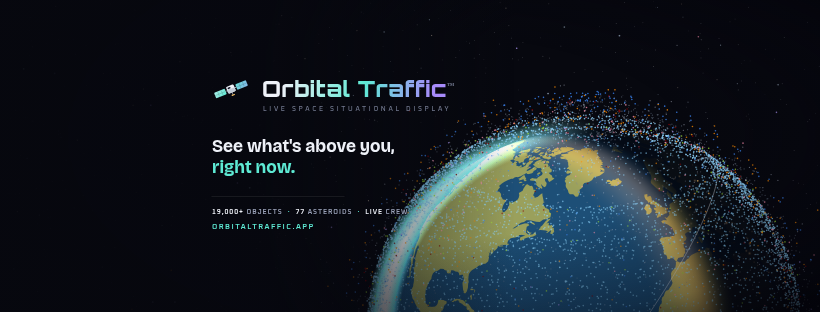
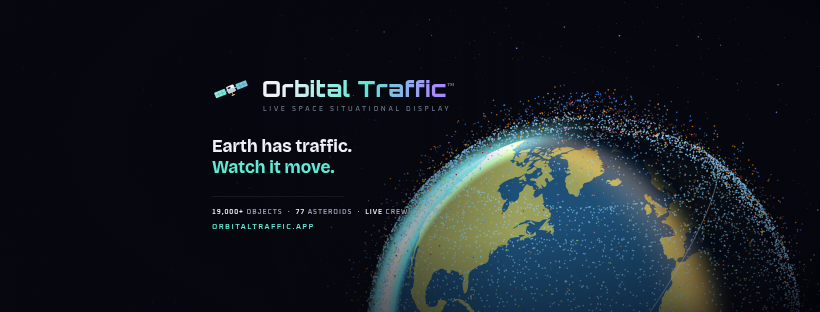
feat: cover headline is now "Earth has traffic. Watch it move."
Chosen over the landing page's wording after rendering the candidates in
place at Facebook's real display size. A social page is found cold by
people who have never heard of this, and "Orbital Traffic" does not
explain itself; "Earth has traffic" makes the name land immediately,
and the belt of real catalogue dots beside it is the evidence.

This is now deliberately different from welcome.html's <h1>/<title>/
og:title, so the cover and a shared link no longer say the same thing.
That divergence is recorded in both the generator and the README, with
the three places to change if they are ever meant to match again.

The README's headline table keeps every candidate that fits the width
budget, and the bio section gains a matching variant.

Claude-Session: https://claude.ai/code/session_01EFr32ekq6uSYHJpBYuUmBy

Changed region(s): [[0.2439, 0.4327, 0.4878, 0.4904], [0.2439, 0.5192, 0.4268, 0.5769]]

diff --git a/design/social/README.md b/design/social/README.md
@@ -110,7 +110,11 @@ In `tools/build-social-cover.mjs`:
 
 > See what's above you, right now — 19,000+ satellites and spacecraft on a live 3D globe.
 
-*87 characters.* Alternative, if a flatter statement is wanted:
+*87 characters.* If the bio should pick up the cover's headline instead:
+
+> Earth has traffic — 19,000+ satellites, stations and spacecraft on a live 3D globe.
+
+*83 characters.* Or, flatter, saying only what the thing is:
 
 > A live 3D map of everything in orbit: 19,000+ satellites, stations and spacecraft.
 
@@ -118,24 +122,30 @@ In `tools/build-social-cover.mjs`:
 
 ### Cover headline
 
-The cover currently carries the same two lines as `welcome.html`'s `<h1>`,
-which are also the page `<title>` and `og:title` — so the cover and a shared
-link say the same thing. **Changing it here alone breaks that**; change
-`welcome.html` in the same pass if the pairing matters.
+The cover reads **"Earth has traffic. / Watch it move."**
 
-Alternatives that fit the two-line width budget, rendered and checked in place:
+This deliberately does *not* match `welcome.html`, whose `<h1>` — and its
+`<title>` and `og:title` with it — say "See what's above you. Right now." The
+two surfaces meet different readers: a social page is found cold by people who
+have never heard of this and for whom "Orbital Traffic" doesn't explain itself,
+while the landing page is read by someone who has already clicked. If the two
+are ever meant to match again, those three places in `welcome.html` are what
+change.
+
+Alternatives that fit the two-line width budget, all rendered and checked in
+place before choosing:
 
 | | Headline | Angle |
 |---|---|---|
-| **current** | See what's above you, / right now. | matches the landing page |
-| **A** | Space is busier / than you think. | curiosity; the dot field next to it proves the claim |
-| **B** | 19,000 objects are / above you right now. | scale — but repeats the stat line directly beneath it |
-| **C** | Earth has traffic. / Watch it move. | explains what the product name means |
-| **D** | Look up. / Then look closer. | invitation; vaguest about what the thing is |
-| **E** | What's over your head / right now? | question form, close cousin of the current line |
-| **F** | Real spacecraft. / Real time. | echoes the App Store description's closing line |
+| **chosen** | Earth has traffic. / Watch it move. | explains what the product name means |
+| | See what's above you, / right now. | matches the landing page |
+| | Space is busier / than you think. | curiosity; the dot field next to it proves the claim |
+| | 19,000 objects are / above you right now. | scale — but repeats the stat line directly beneath it |
+| | Look up. / Then look closer. | invitation; vaguest about what the thing is |
+| | What's over your head / right now? | question form, close cousin of the landing-page line |
+| | Real spacecraft. / Real time. | echoes the App Store description's closing line |
 
-To see any of them without touching the file:
+To try another without touching the file:
 
 ```bash
 npm run social:cover -- --headline "Space is busier|than you think." --out-dir /tmp/v
